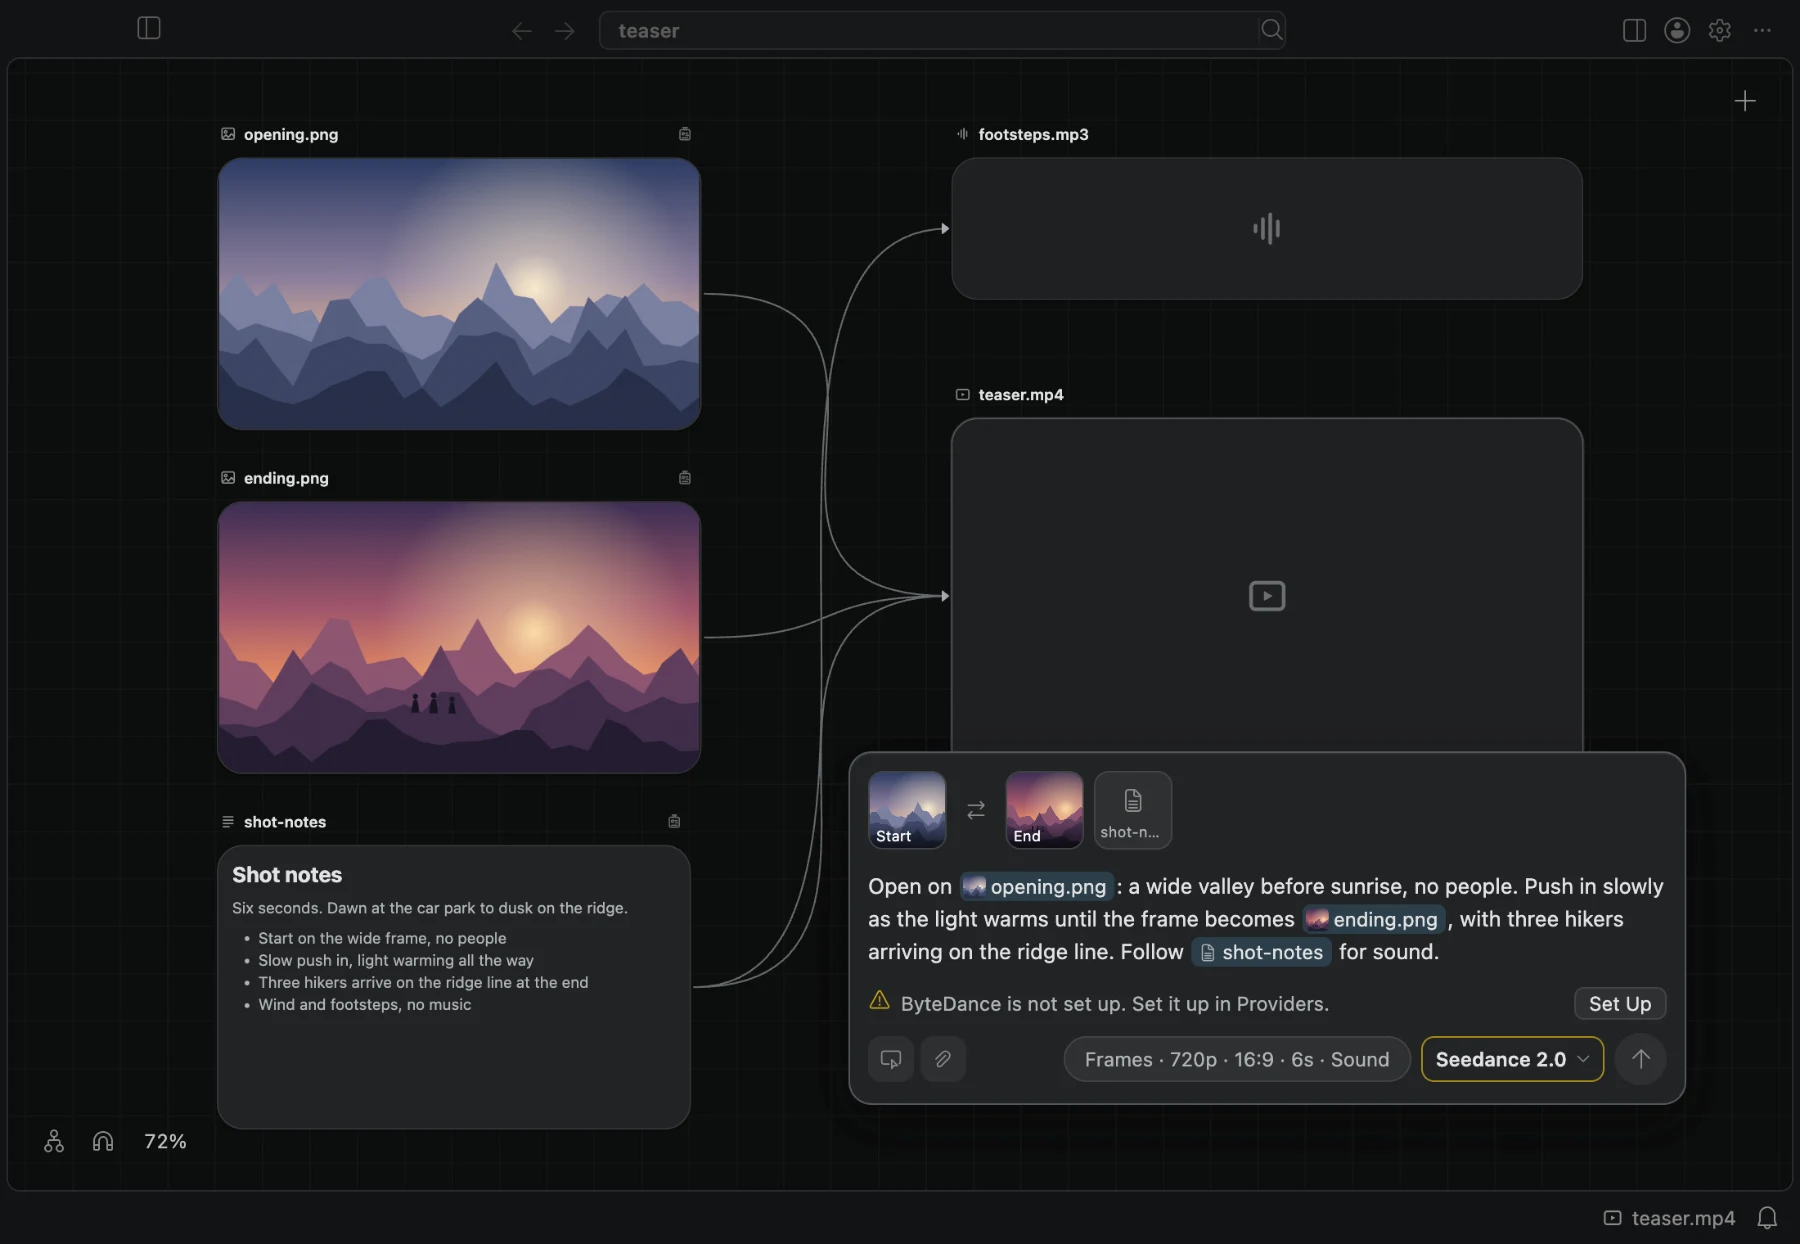
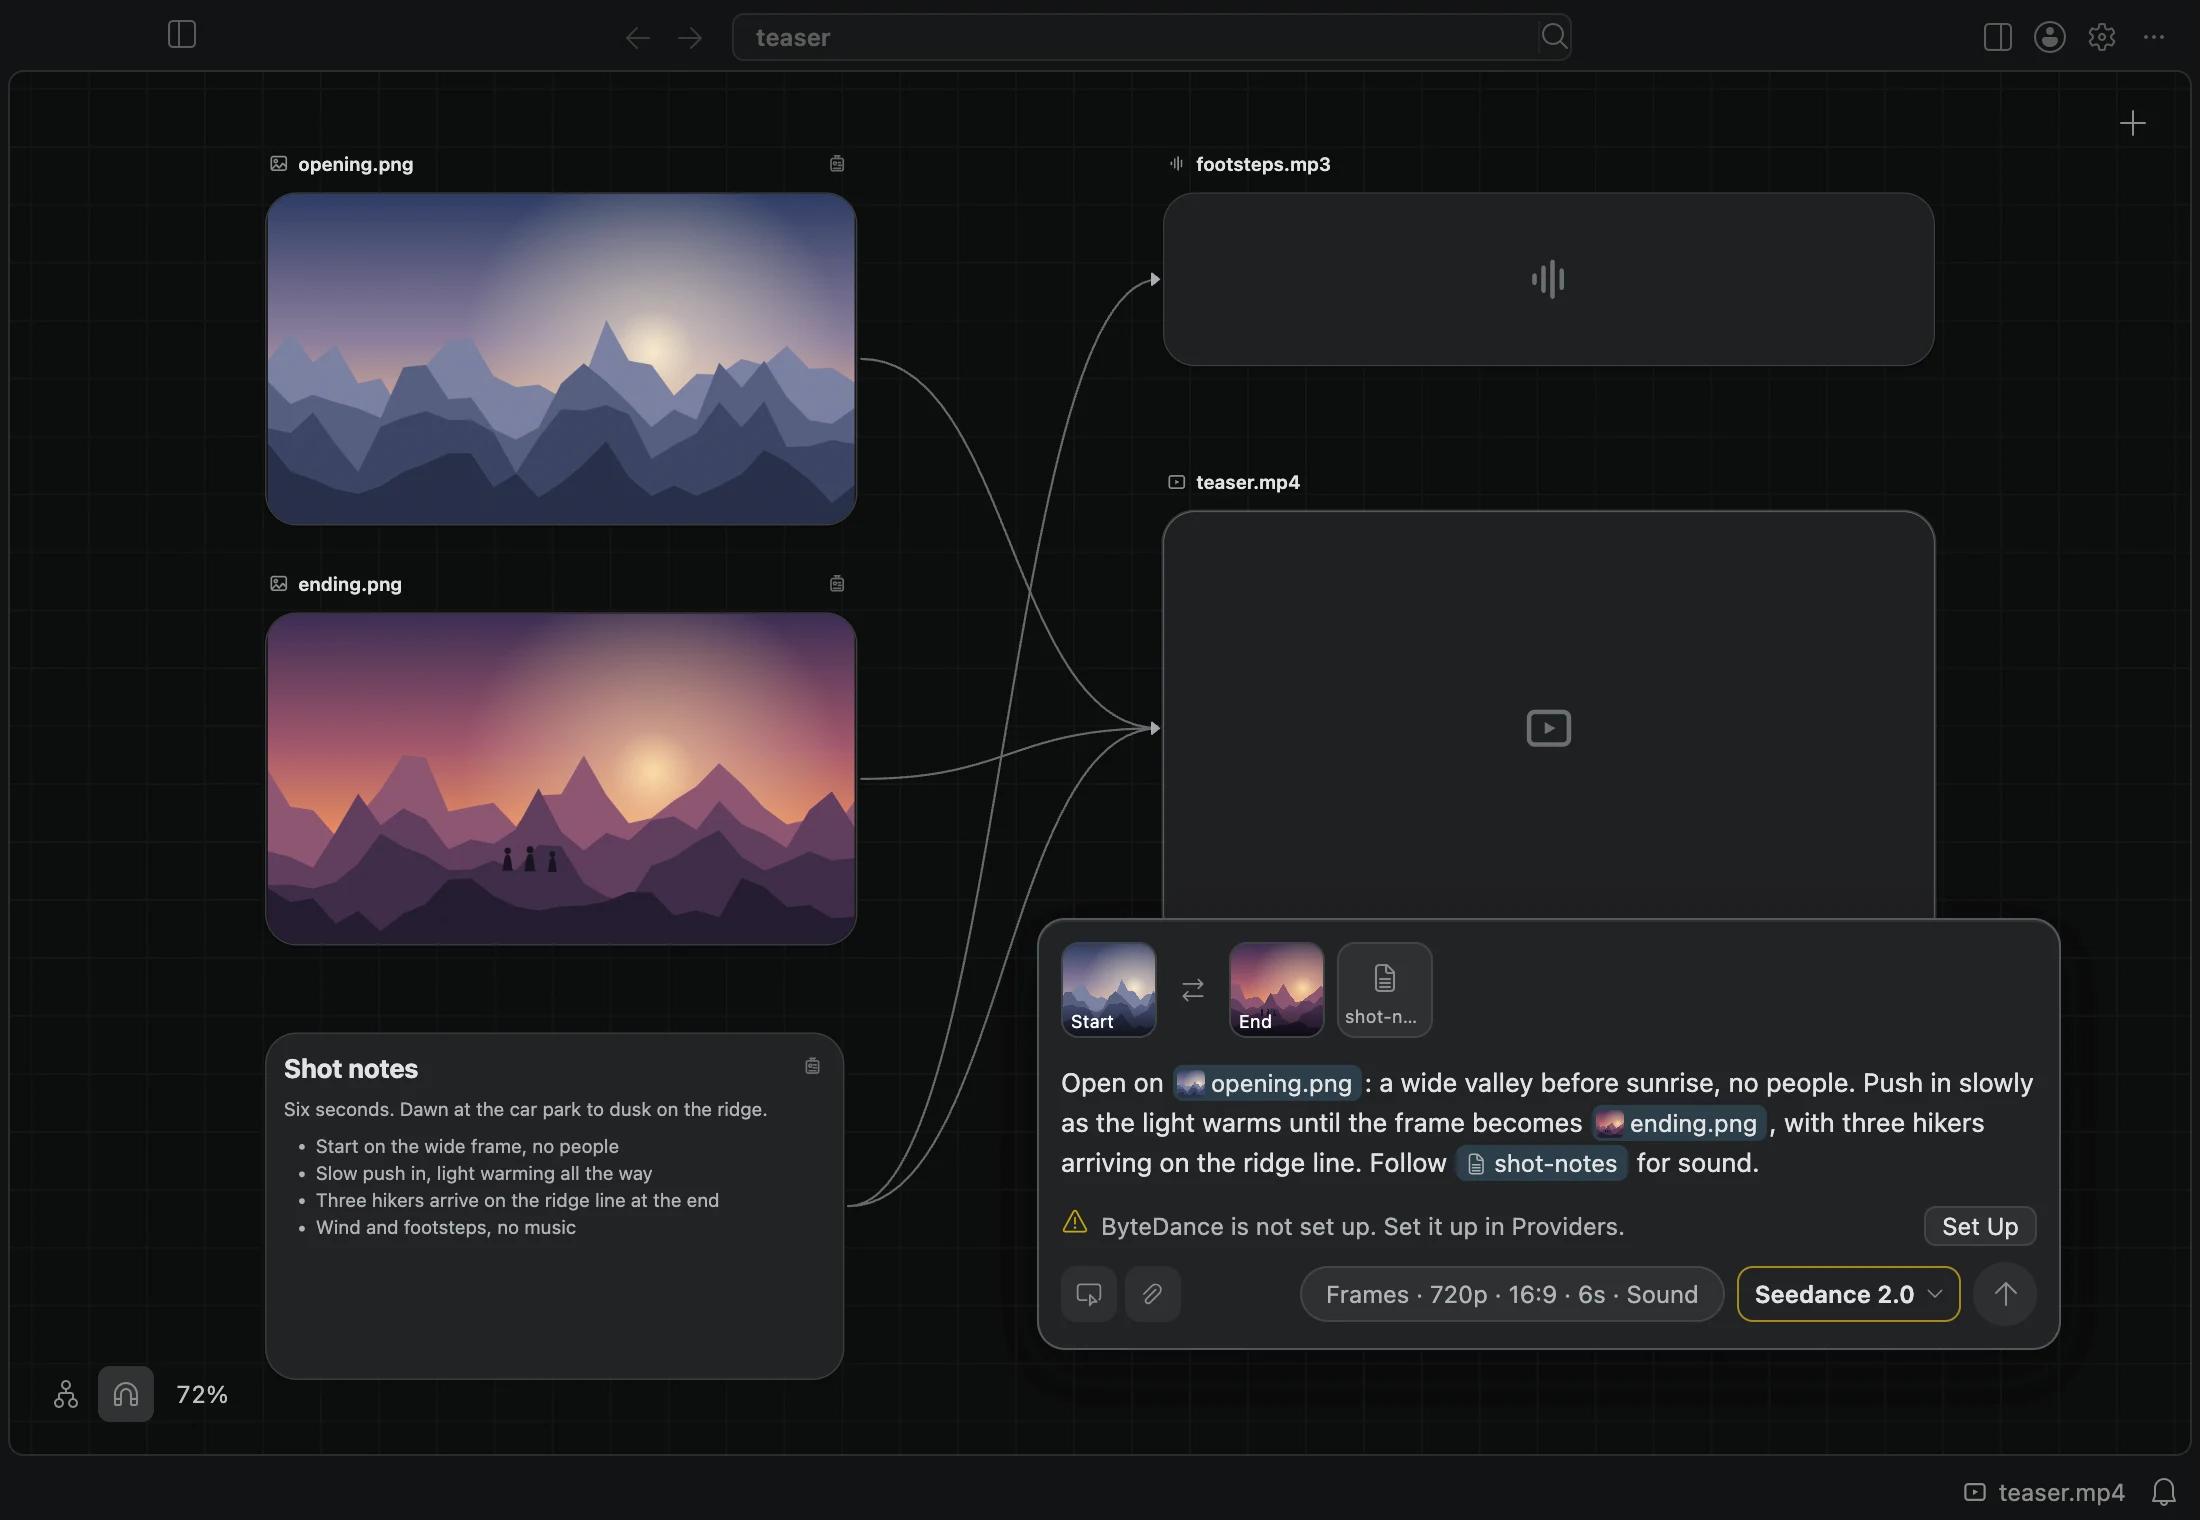
docs(readme): the selection and generation pictures show the cards as they are now
Both were taken before a note's card lost the name above it. Retaken in
the 0.7.2 window on the same demo folders.

diff --git a/README.md b/README.md
@@ -153,7 +153,7 @@ BaseHalf records the selection where agents look, so "who asked for this?" is a
 complete question.
 
 <p align="center">
-  <img src="docs/assets/readme/selection.webp" width="820" alt="A sentence in a decision note on the canvas is selected. Claude Code, beside the canvas, answers “who asked for this?”: nobody asked for it directly. It quotes the selected sentence and names the notes it came from.">
+  <img src="docs/assets/readme/selection.webp" width="820" alt="A sentence in a decision note on the canvas is selected. Claude Code, beside the canvas, answers “who asked for this?”: no one person asked for it. It quotes the selected sentence and names the notes it came from.">
 </p>
 
 ## What else it does
